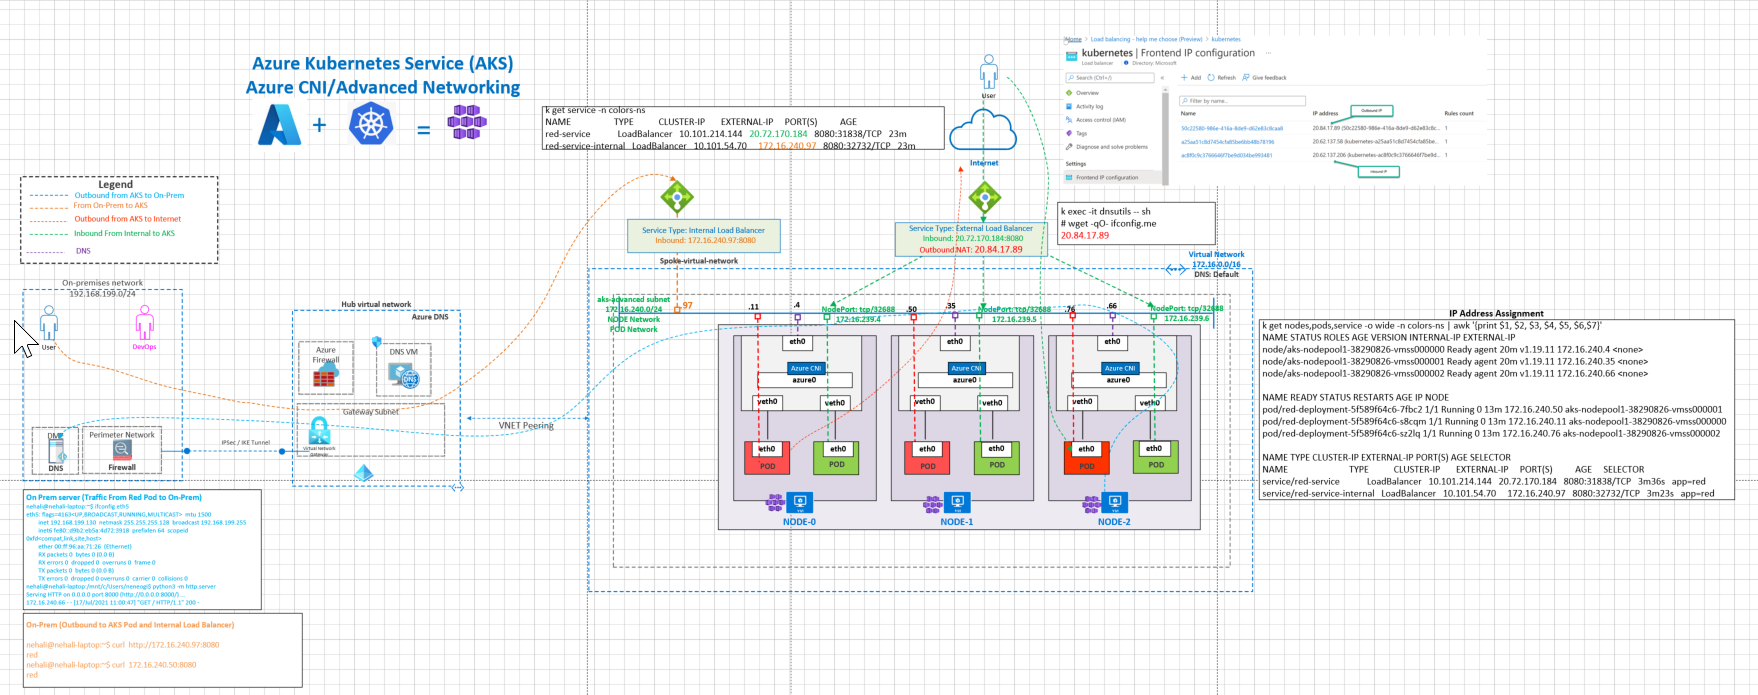
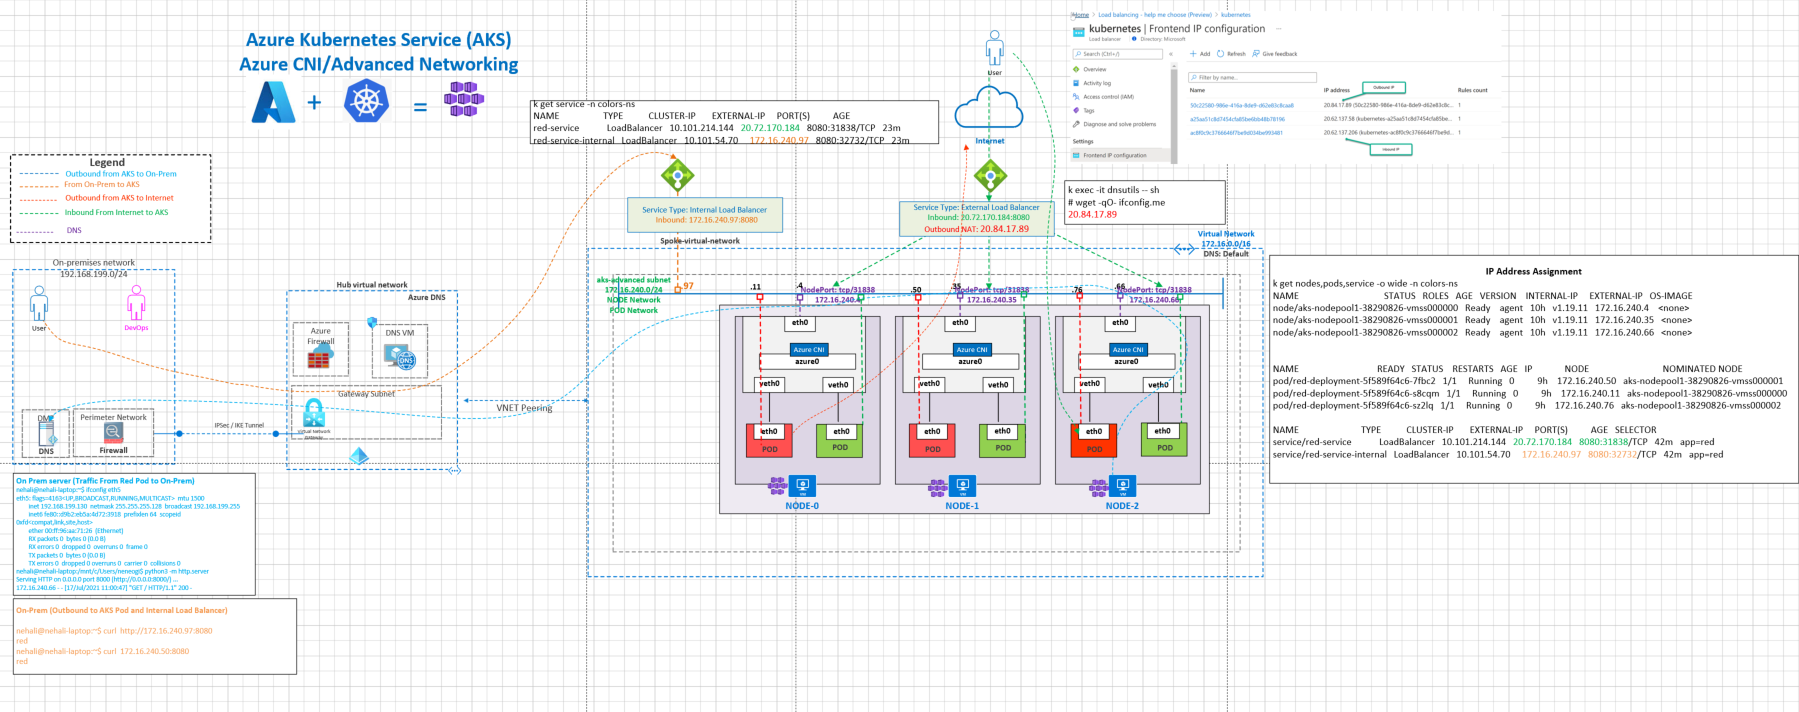
inital commit for multiple nodepool

Changed region(s): [[0.0, 0.0, 1.0, 0.9971], [0.9522, 0.3324, 1.0, 0.3626], [0.9829, 0.3928, 1.0, 0.423]]

diff --git a/aks/README-multinode.md b/aks/README-multinode.md
@@ -1,0 +1,168 @@
+## AKS Multiple Nodepool
+
+In AKS, **system nodes pool** is created when you create an AKS cluster. System node pools serve the primary prupose of hosting critical system pods such as CoreDNS and tunnel front. In Azure Kubernetes Service (AKS), nodes of the same configuration are grouped together into node pools. To support applications that have different compute or storage demands, you can create additonal **user node pools**.
+
+## Reference Architecture
+
+## AKS multiple nodepool design
+
+![AKS Advanced Networking](images/aks-multinode.png)
+
+Download Visio link here.
+
+## Azure Documentation links
+
+[AKS Multiple Node pools](https://docs.microsoft.com/en-us/azure/aks/use-multiple-node-pools)
+[Node Pool with unique subnet- Prevew](https://docs.microsoft.com/en-us/azure/aks/use-multiple-node-pools#add-a-node-pool-with-a-unique-subnet-preview)
+[Node Pool tags](https://docs.microsoft.com/en-us/azure/aks/use-multiple-node-pools#setting-nodepool-azure-tags)
+
+## Design Components
+
+#### Add a Node pool, with node-public-ips and tag the nodes
+
+```
+az aks nodepool add \
+ --resource-group aks-basic-rg \
+ --cluster-name nnaks-advanced \
+ --name mynodepool \
+ --node-count 3 \
+ --vnet-subnet-id $SUBNET_ID \
+ --enable-node-public-ip \
+ --tags dept=IT costcenter=9999 \
+ --verbose
+
+```
+
+#### Create a sample deployment
+
+Note use the nodeSelector to select the new node pool
+k create ns demo-ns-mynodepool
+k apply -f deployment-mynodepool.yaml
+
+```
+apiVersion: apps/v1
+kind: Deployment
+metadata:
+  name: nginx-deployment
+  namespace: demo-ns-mynodepool
+  labels:
+    app: nginx
+spec:
+  replicas: 3
+  selector:
+    matchLabels:
+      app: nginx
+  template:
+    metadata:
+      labels:
+        app: nginx
+    spec:
+      containers:
+        - name: nginx
+          image: nginxdemos/hello
+          ports:
+            - containerPort: 80
+      nodeSelector:
+        agentpool: mynodepool
+
+```
+
+## Design Validations
+
+### View mynodepool node from the Azure Portal
+
+Note the public IPs and tags
+
+![mynodepool node](images/mynodepool-node.png)
+
+### List nodepool
+
+```
+az aks nodepool list --resource-group aks-basic-rg --cluster-name nnaks-advanced -o table
+Name OsType KubernetesVersion VmSize Count MaxPods ProvisioningState Mode
+
+---
+
+mynodepool Linux 1.19.11 Standard_DS2_v2 3 30 Succeeded User
+nodepool1 Linux 1.19.11 Standard_DS2_v2 3 30 Succeeded System
+
+
+```
+
+validate nodes
+
+```
+k get nodes,pods -o wide -A -n demo-ns
+NAME                                      STATUS   ROLES   AGE   VERSION    INTERNAL-IP     EXTERNAL-IP   OS-IMAGE             KERNEL-VERSION     CONTAINER-RUNTIME
+node/aks-mynodepool-38290826-vmss000000   Ready    agent   22m   v1.19.11   172.16.241.4    <none>        Ubuntu 18.04.5 LTS   5.4.0-1051-azure   containerd://1.4.4+azure
+node/aks-mynodepool-38290826-vmss000001   Ready    agent   22m   v1.19.11   172.16.241.35   <none>        Ubuntu 18.04.5 LTS   5.4.0-1051-azure   containerd://1.4.4+azure
+node/aks-mynodepool-38290826-vmss000002   Ready    agent   22m   v1.19.11   172.16.241.66   <none>        Ubuntu 18.04.5 LTS   5.4.0-1051-azure   containerd://1.4.4+azure
+node/aks-nodepool1-38290826-vmss000000    Ready    agent   17d   v1.19.11   172.16.240.4    <none>        Ubuntu 18.04.5 LTS   5.4.0-1049-azure   containerd://1.4.4+azure
+node/aks-nodepool1-38290826-vmss000001    Ready    agent   17d   v1.19.11   172.16.240.35   <none>        Ubuntu 18.04.5 LTS   5.4.0-1049-azure   containerd://1.4.4+azure
+node/aks-nodepool1-38290826-vmss000002    Ready    agent   17d   v1.19.11   172.16.240.66   <none>        Ubuntu 18.04.5 LTS   5.4.0-1049-azure   containerd://1.4.4+azure
+
+```
+
+#### Egress via standard load balancer
+
+Without node specific public IPs, pods will egress Via standard load balancer
+
+```
+k exec -it nginx-deployment-74b8f6d4dd-974vq -n demo-ns-mynodepool sh
+kubectl exec [POD] [COMMAND] is DEPRECATED and will be removed in a future version. Use kubectl exec [POD] -- [COMMAND] instead.
+/ # wget -qO- ifconfig.me
+20.84.17.89/ #
+
+```
+
+Oubound Load Balancer Pool
+
+![outbound Pool](images/aks-nodepool-outbound-slb.png)
+
+#### Egress via node IPs
+
+Note the IP address of the note **23.96.56.221** is the egress IP of the pod deployed on that node.
+
+```
+az vmss list-instance-public-ips -g MC_aks-basic-rg_nnaks-advanced_eastus -n aks-mynodepool-38290826-vmss -o table
+IdleTimeoutInMinutes    IpAddress     Name    ProvisioningState    PublicIpAddressVersion    PublicIpAllocationMethod    ResourceGroup                          ResourceGuid
+----------------------  ------------  ------  -------------------  ------------------------  --------------------------  -------------------------------------  ------------------------------------
+30                      23.96.56.221  pub1    Succeeded            IPv4                      Static                      MC_aks-basic-rg_nnaks-advanced_eastus  de165421-4eef-4f6e-a123-d2edcb6c7a90
+30                      23.96.56.250  pub1    Succeeded            IPv4                      Static                      MC_aks-basic-rg_nnaks-advanced_eastus  e5f31bd9-9a68-42f7-8e3f-dd70c7b64064
+30                      23.96.56.11   pub1    Succeeded            IPv4                      Static                      MC_aks-basic-rg_nnaks-advanced_eastus  60437b3f-dea8-4773-b092-a477a99b1188
+k create ns demo-ns-mynodepool
+namespace/demo-ns-mynodepool created
+ k apply -f deployment-mynodepool.yaml
+deployment.apps/nginx-deployment created
+ k get pods -o wide -n demo-ns-mynodepool
+NAME                                READY   STATUS    RESTARTS   AGE   IP              NODE                                 NOMINATED NODE   READINESS GATES
+nginx-deployment-74b8f6d4dd-qhfbv   1/1     Running   0          17s   172.16.241.30   aks-mynodepool-38290826-vmss000000   <none>           <none>
+nginx-deployment-74b8f6d4dd-w25tj   1/1     Running   0          17s   172.16.241.47   aks-mynodepool-38290826-vmss000001   <none>           <none>
+nginx-deployment-74b8f6d4dd-wpslq   1/1     Running   0          17s   172.16.241.96   aks-mynodepool-38290826-vmss000002   <none>           <none>
+ k exec -it nginx-deployment-74b8f6d4dd-qhfbv -n demo-ns-mynodepool sh
+kubectl exec [POD] [COMMAND] is DEPRECATED and will be removed in a future version. Use kubectl exec [POD] -- [COMMAND] instead.
+/ # curl ifconfig.io
+23.96.56.221
+/ # exit
+
+```
+
+### AKS Ingress via Azure SLB
+
+Inbound via service type: LoadBalancer
+
+![AKS Ingress](images/aks-inbound-multinodepool.png)
+
+### Cleanup: Delete namespace, Delete nodepool
+
+```
+k delete ns demo-ns-mynodepool
+az aks nodepool delete --resource-group aks-basic-rg  --cluster-name nnaks-advanced --name mynodepool --no-wait
+
+```
+
+## TODO
+
+1. Refine diagram
+2. List tags via command line
+3. Add use cases

diff --git a/aks/README.md b/aks/README.md
@@ -1,0 +1,18 @@
+### [Azure Kubernetes Services (AKS)](README-advanced.md)
+
+- [Docker Networking](README-docker-multihost.md)
+  - [Single Host](README-docker-singlehost.md)
+  - [Multi Host](README-docker-multihost.md)
+  - kind Cluster (Kubernetes In Docker) (Coming soon...)
+- [Basic/Kubenet Networking](README-kubenet.md)
+- [Advanced/Azure CNI Networking](README-advanced.md)
+- [AKS Private Cluster](README-private-cluster.md)
+  - [AKS Private Cluster with Azure Front Door](README-private-cluster-with-AFD.md)
+- [Ingress Controllers](README-ingress-appgw.md)
+  - [AKS Application ateway Ingress Controller (AGIC)](README-ingress-appgw.md)
+  - [Nginx Ingress controller](README-ingress-nginx.md)
+- [AKS Egress with Azure firewall/NVA](README-aks-egress.md)
+- Core DNS and Azure DNS Integrations (Coming soon...)
+- AKS Multiple Node Pools
+- Kubernetes Network Model - Multus, Flannel,Weave, Calico, Cilium
+- Kubernets Serivce Mesh (Istio, Linkerd and Consul)

diff --git a/README.md b/README.md
@@ -22,12 +22,12 @@ This is a repo of cross solution network connectivity designs with Azure PaaS se
 - [AKS Private Cluster](aks/README-private-cluster.md)
   - [AKS Private Cluster with Azure Front Door](aks/README-private-cluster-with-AFD.md)
 - [Ingress Controllers](aks/README-ingress-appgw.md)
-  - [AKS Application gateway Ingress Controller (AGIC)](aks/README-ingress-appgw.md)
+  - [AKS Application ateway Ingress Controller (AGIC)](aks/README-ingress-appgw.md)
   - [Nginx Ingress controller](aks/README-ingress-nginx.md)
 - [AKS Egress with Azure firewall/NVA](aks/README-aks-egress.md)
-- AKS Multiple Node Pools
 - Core DNS and Azure DNS Integrations (Coming soon...)
-- Kubernetes Network Model - Multus, Flannel,Weave, Calico, Cilium (Coming Soon..)
+- AKS Multiple Node Pools
+- Kubernetes Network Model - Multus, Flannel,Weave, Calico, Cilium
 - Kubernets Serivce Mesh (Istio, Linkerd and Consul)
 
 ### [Azure Database Services](database-services/README.md)
